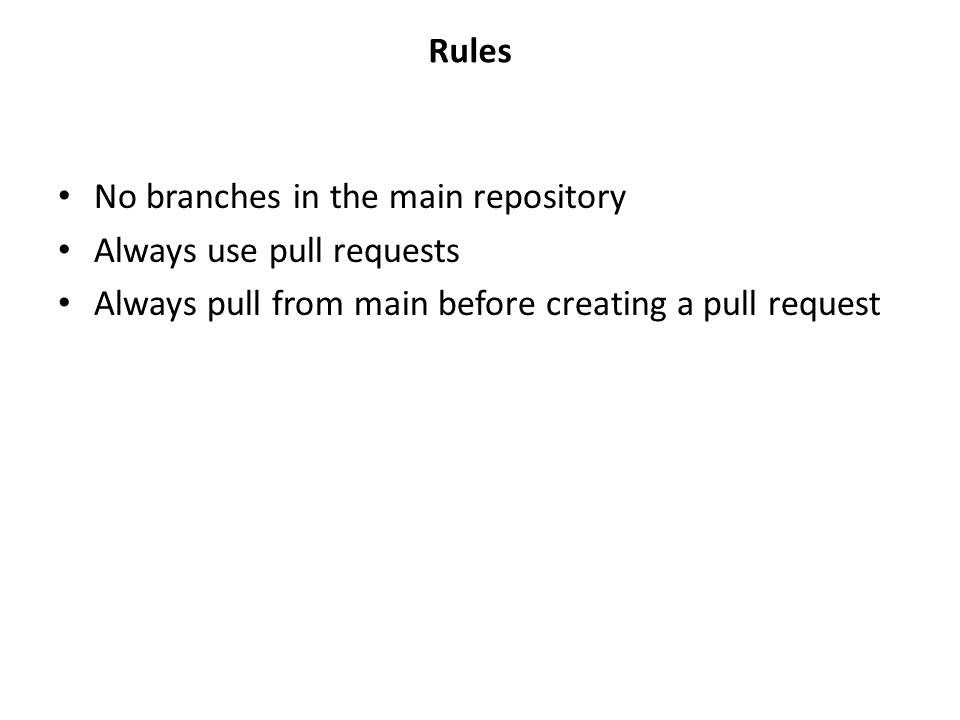
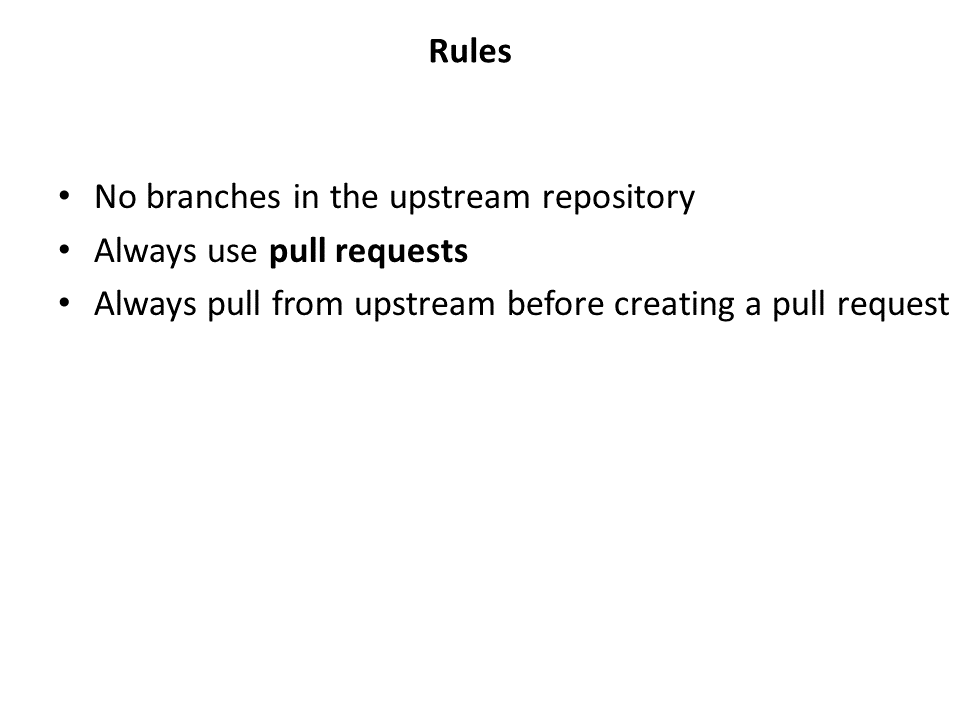
Update git workflow tutorial: rename "main" to "upstream" repository. Add info how to open Git Bash under Windows. Fix tyops.

Changed region(s): [[0.375, 0.3972, 1.0, 0.4583], [0.4062, 0.2444, 0.7188, 0.3056], [0.2812, 0.3056, 0.5, 0.3667]]

diff --git a/tutorials/0_Git_and_GitHub_workflow.md b/tutorials/0_Git_and_GitHub_workflow.md
@@ -37,7 +37,7 @@ After completion of this exercise, you'll be able to:
 
 <img src="figures/git-1-setup.png" width="100%" style="display: block; margin: auto;" />
 
-Every code development (even bugfixes) will be merged into our main
+Every code development (even bugfixes) will be merged into our main (called "upstream")
 repository under <https://github.com/remindmodel/remind> with the help
 of so called pull requests. Pull requests give us control over the
 changes entering our branches. To create a pull request, we use personal
@@ -54,7 +54,9 @@ interface, but since you want to test and run your code locally you have
 to clone the repository from your fork anyway. This can be done using
 the 'https' or 'ssh' address of your fork together with the `git clone`
 command (cmd/bash/GUI) at your machine. We recommend to upload an
-ssh-key and use ssh to connect to GitHub.
+ssh-key and use ssh to connect to GitHub. Under Windows open a git bash as follows: 
+open the file explorer, right-click on the folder you want to execute the git commands in
+and choose "Git Bash Here" from the context menu. You need to have git installed.
 
 > **Exercise**: Visit your fork and clone the repository at your
 > machine.
@@ -70,15 +72,15 @@ commands in Git. We have compiled a typical workflow at the end of this tutorial
 
 After you have added your changes locally, push (upload) them to your personal remote repository.
 
-## 2.4 Pull (updates from the main repository)
+## 2.4 Pull (updates from the upstream repository)
 
 To keep your fork up-to-date with the upstream repository you can use
 the GitHub interface. Via `Compare` you are able to check, if the
 upstream is some commits ahead. If so merge these new changes into
 your fork. 
 
-<img src="figures/git-3-add-main.PNG" width="100%" style="display: block; margin: auto;" />
-<img src="figures/git-4-pull-main.PNG" width="100%" style="display: block; margin: auto;" />
+<img src="figures/git-3-add-upstream.PNG" width="100%" style="display: block; margin: auto;" />
+<img src="figures/git-4-pull-upstream.PNG" width="100%" style="display: block; margin: auto;" />
 
 You can also do this merging procedure in your local copy by adding 
 both your fork and the upstream repository as so called 'remotes' to 
@@ -90,9 +92,9 @@ your local repository.
 
 ## 2.5 Pull request
 
-After you have commited your changes locally, merged the latest updates from the remote main repository and 
+After you have committed your changes locally, merged the latest updates from the remote upstream repository and 
 pushed the result to your remote personal repository it is time to get it integrated
-into the remote main repository. Insted of pushing them directly into the remote main repository we use so called
+into the remote upstream repository. Instead of pushing them directly into the remote upstream repository we use so called
 pull requests. Pull requests are proposed changes to a repository submitted by you and accepted or rejected by a 
 repository collaborator. Like issues, pull requests each have their own discussion forum.
 
